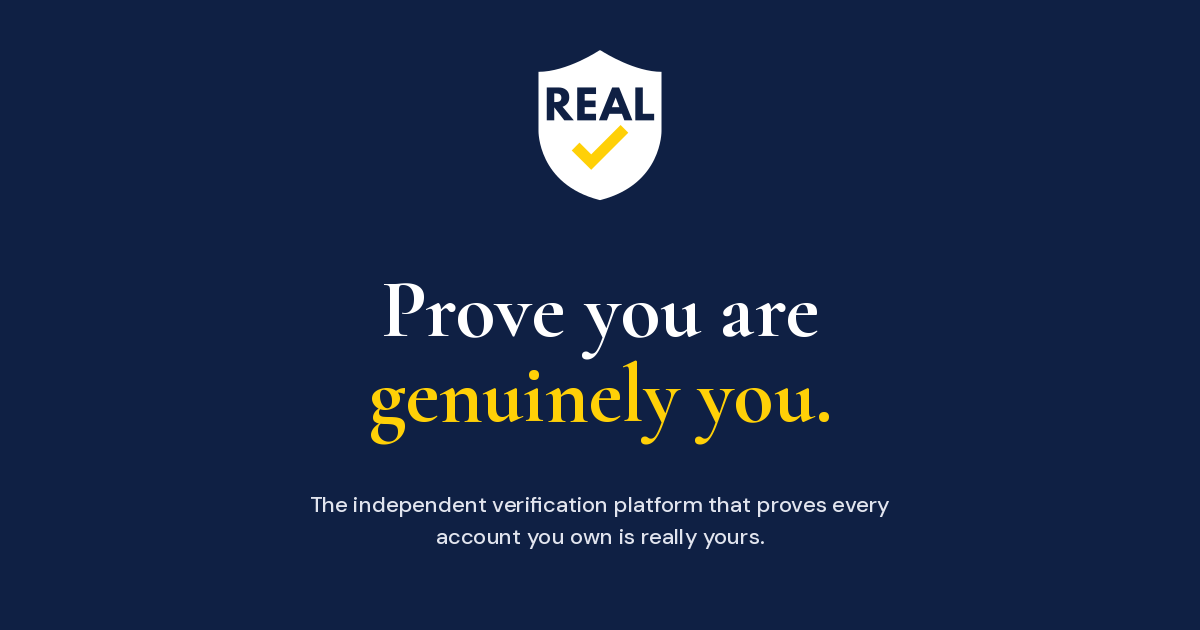
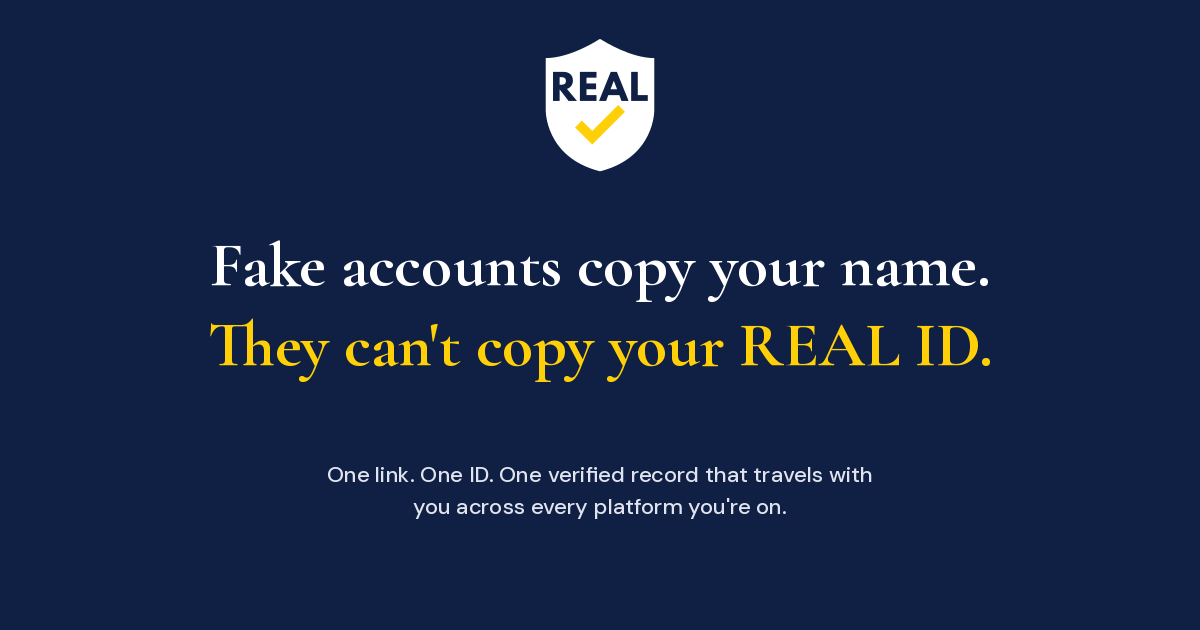
Update OG image and trim social meta descriptions
Swap og-image.png for the new version, shorten og:description/description/twitter:description, and add og:site_name.

Changed region(s): [[0.1542, 0.3921, 0.8325, 0.8143], [0.4317, 0.0603, 0.555, 0.3317], [0.37, 0.8444, 0.6475, 0.8746]]

diff --git a/index.html b/index.html
@@ -7,7 +7,7 @@
 <meta charset="UTF-8">
 <meta name="viewport" content="width=device-width, initial-scale=1.0">
 <title>REAL — Identity Infrastructure for the Internet</title>
-<meta name="description" content="REAL gives you one permanent, government-ID-verified identity that travels with you across every platform you use — checkable by anyone in seconds, owned by you, not a platform.">
+<meta name="description" content="REAL gives you one permanent, government-ID-verified identity that travels with you across every platform you use — checkable by anyone in seconds.">
 <link rel="icon" type="image/x-icon" href="https://realverified.co.uk/favicon.ico">
 <link rel="icon" type="image/png" sizes="16x16" href="https://realverified.co.uk/favicon-16x16.png">
 <link rel="icon" type="image/png" sizes="32x32" href="https://realverified.co.uk/favicon-32x32.png">
@@ -15,15 +15,16 @@
 <link rel="icon" type="image/png" sizes="192x192" href="https://realverified.co.uk/android-chrome-192x192.png">
 <link rel="icon" type="image/png" sizes="512x512" href="https://realverified.co.uk/android-chrome-512x512.png">
 <meta property="og:title" content="REAL — Identity Infrastructure for the Internet">
-<meta property="og:description" content="REAL gives you one permanent, government-ID-verified identity that travels with you across every platform you use — checkable by anyone in seconds, owned by you, not a platform.">
+<meta property="og:description" content="REAL gives you one permanent, government-ID-verified identity that travels with you across every platform you use — checkable by anyone in seconds.">
 <meta property="og:image" content="https://realverified.co.uk/og-image.png">
 <meta property="og:image:width" content="1200">
 <meta property="og:image:height" content="630">
 <meta property="og:url" content="https://realverified.co.uk/">
 <meta property="og:type" content="website">
+<meta property="og:site_name" content="REAL">
 <meta name="twitter:card" content="summary_large_image">
 <meta name="twitter:title" content="REAL — Identity Infrastructure for the Internet">
-<meta name="twitter:description" content="REAL gives you one permanent, government-ID-verified identity that travels with you across every platform you use — checkable by anyone in seconds, owned by you, not a platform.">
+<meta name="twitter:description" content="REAL gives you one permanent, government-ID-verified identity that travels with you across every platform you use — checkable by anyone in seconds.">
 <meta name="twitter:image" content="https://realverified.co.uk/og-image.png">
 <link href="https://fonts.googleapis.com/css2?family=Cormorant+Garamond:ital,wght@0,400;0,500;0,600;0,700;1,400;1,600&family=DM+Sans:wght@300;400;500;600&family=DM+Mono:wght@400;500&display=swap" rel="stylesheet">
 <style>
